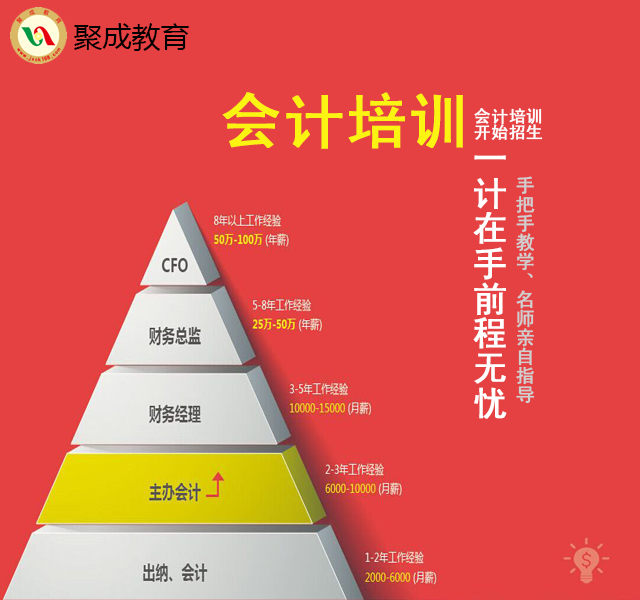
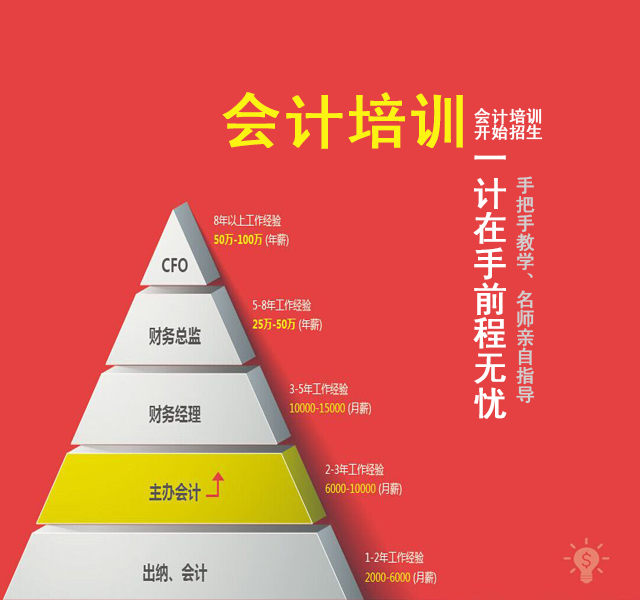
dd

Changed region(s): [[0.0, 0.0, 0.3125, 0.12]]

diff --git a/WebContent/static/style/css/dreamlu.css b/WebContent/static/style/css/dreamlu.css
@@ -12,7 +12,7 @@ h2 {font-size:18px;font-weight:bold;margin:0;margin-bottom:15px;}
 #layout_west_tree li div{padding:5px 5px 3px 10px;}
 
 #header{overflow:hidden;height:50px;background:#fff ;line-height:50px;color:#fff;font-family:Verdana,微软雅黑,黑体}
-.header{background: url(../../proscenium/logo/logo5.png) no-repeat left; width: 325px; height: 50px; float: left;}
+.header{background: url(../../proscenium/logo/logo.png) no-repeat left; width: 325px; height: 50px; float: left;}
 #common_b{overflow:hidden;height:70px;line-height:70px;color:#fff;font-family:Verdana,微软雅黑,黑体}
 #common{overflow:hidden;height:60px;background:#eee;line-height:60px;color:#fff;font-family:Verdana,微软雅黑,黑体}
 
